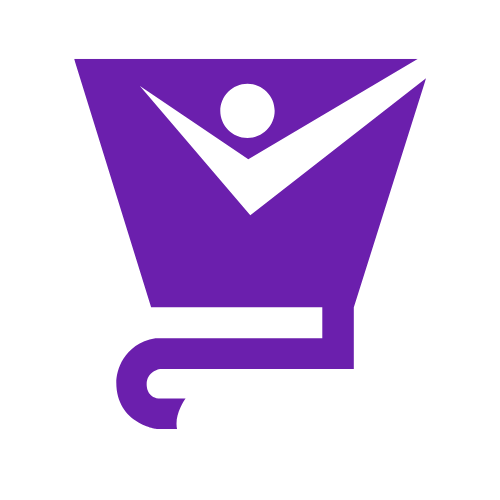
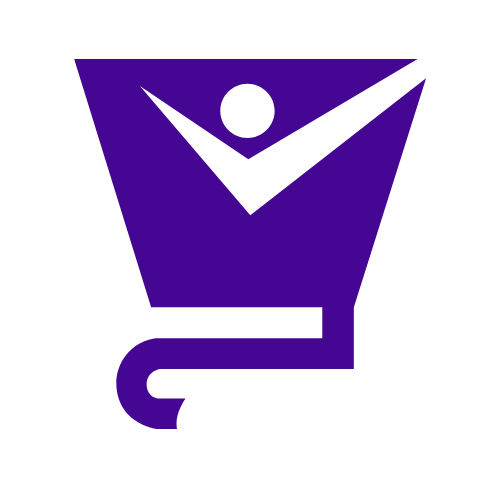
chore:add gif in onboarding screen

Changed region(s): [[0.15, 0.12, 0.87, 0.87]]

diff --git a/lib/feature/startup/widget/onboarding_widget.dart b/lib/feature/startup/widget/onboarding_widget.dart
@@ -1,6 +1,8 @@
 import 'package:e_commerce_app/core/constant/assets.dart';
-import 'package:e_commerce_app/core/theme/app_theme.dart';
+import 'package:e_commerce_app/core/theme/constant_color.dart';
+import 'package:e_commerce_app/core/widget/app_padding.dart';
 import 'package:e_commerce_app/feature/startup/bloc/onboarding_screen_model.dart';
+import 'package:e_commerce_app/feature/startup/widget/pageview_builder.dart';
 import 'package:flutter/material.dart';
 import 'package:flutter_screenutil/flutter_screenutil.dart';
 
@@ -21,52 +23,25 @@ class _OnboardingWidgetState extends State<OnboardingWidget> {
     return Scaffold(
       backgroundColor: Colors.white,
       body: SafeArea(
-        child: Padding(
-          padding: EdgeInsets.symmetric(horizontal: 16.w, vertical: 16.h),
+        child: AppPadding(
           child: Column(
             children: [
               Align(
                 alignment: AlignmentGeometry.topEnd,
-                child: Text(
-                  "Skip",
-                  style: TextStyle(
-                    fontSize: 12.sp,
-                    fontWeight: FontWeight.bold,
-                    color: Colors.deepPurple,
+                child: InkWell(
+                  autofocus: true,
+                  onTap: () {},
+                  child: Text(
+                    "Skip",
+                    style: textTheme.bodySmall?.copyWith(
+                      fontWeight: FontWeight.bold,
+                      color: AppColors.primaryColor,
+                    ),
                   ),
                 ),
               ),
               SizedBox(height: 30.h),
-              Expanded(
-                child: PageView.builder(
-                  itemCount: onBoardingScreen.length,
-                  controller: controller,
-
-                  itemBuilder: (context, index) {
-                    final data = onBoardingScreen[index];
-                    return Column(
-                      children: [
-                        Image.asset(Assets.appIcon),
-                        Text(
-                          data.title,
-                          textAlign: TextAlign.center,
-                          style: textTheme.displaySmall,
-                        ),
-                        SizedBox(height: 10.h),
-                        Text(
-                          data.description,
-                          textAlign: TextAlign.center,
-                          style: textTheme.bodyLarge,
-                        ),
-                      ],
-                    );
-                  },
-                ),
-              ),
-              IconButton(
-                onPressed: () {},
-                icon: Icon(Icons.forward, color: Colors.deepPurple),
-              ),
+              PageViewBuilder(controller: controller, textTheme: textTheme),
             ],
           ),
         ),

diff --git a/lib/feature/startup/widget/pageview_builder.dart b/lib/feature/startup/widget/pageview_builder.dart
@@ -1,0 +1,47 @@
+import 'package:e_commerce_app/core/theme/constant_color.dart';
+import 'package:e_commerce_app/feature/startup/bloc/onboarding_screen_model.dart';
+import 'package:flutter/material.dart';
+import 'package:flutter_screenutil/flutter_screenutil.dart';
+
+class PageViewBuilder extends StatelessWidget {
+  const PageViewBuilder({
+    super.key,
+    required this.controller,
+    required this.textTheme,
+  });
+
+  final PageController controller;
+  final TextTheme textTheme;
+
+  @override
+  Widget build(BuildContext context) {
+    return Expanded(
+      child: PageView.builder(
+        itemCount: onBoardingScreen.length,
+        controller: controller,
+        itemBuilder: (context, index) {
+          final data = onBoardingScreen[index];
+          return Column(
+            children: [
+              Image.asset(data.image),
+              SizedBox(height: 10.h),
+              Text(
+                data.title,
+                textAlign: TextAlign.center,
+                style: textTheme.displayMedium,
+              ),
+              SizedBox(height: 10.h),
+              Text(
+                data.description,
+                textAlign: TextAlign.center,
+                style: textTheme.bodyLarge?.copyWith(
+                  color: AppColors.greylight,
+                ),
+              ),
+            ],
+          );
+        },
+      ),
+    );
+  }
+}

diff --git a/lib/feature/startup/bloc/onboarding_screen_model.dart b/lib/feature/startup/bloc/onboarding_screen_model.dart
@@ -1,3 +1,5 @@
+import 'package:e_commerce_app/core/constant/assets.dart';
+
 class OnboardingScreenModel {
   final String title;
   final String description;
@@ -14,18 +16,18 @@ final List<OnboardingScreenModel> onBoardingScreen = [
     title: "Discover Amazing Products",
     description:
         "Explore thousands of products from different categories and find exactly what you need in seconds.",
-    image: "",
+    image: Assets.onboardingSceenFirst,
   ),
   OnboardingScreenModel(
-    title: "Discover Amazing Products",
+    title: "Easy and Secure Shopping",
     description:
-        "Explore thousands of products from different categories and find exactly what you need in seconds.",
-    image: "",
+        "Add products to your cart, enjoy a smooth checkout process, and pay securely.",
+    image: Assets.onboardingSceenSecond,
   ),
   OnboardingScreenModel(
-    title: "Discover Amazing Products",
+    title: "Shop Your Favorites",
     description:
-        "Explore thousands of products from different categories and find exactly what you need in seconds.",
-    image: "",
+        "Browse trending products and discover amazing deals every day.",
+    image: Assets.onboardingSceenThird,
   ),
 ];

diff --git a/lib/core/constant/assets.dart b/lib/core/constant/assets.dart
@@ -1,10 +1,16 @@
 class Assets {
   static const String _basePath = "assets/images";
-  static const String _basePathSvg = "assets/svg";
+  static const String _basePathSvg = "assets/gif";
   static const _svg = ".svg";
   static const _png = ".png";
   static const _jpg = ".jpg";
   static const _gif = ".gif";
 
   static const appIcon = "$_basePathSvg/app_splash_icon$_gif";
+  static const onboardingSceenFirst =
+      "$_basePathSvg/onboarding_imageFirst$_gif";
+  static const onboardingSceenSecond =
+      "$_basePathSvg/onboarding_imageSecond$_gif";
+  static const onboardingSceenThird =
+      "$_basePathSvg/onboarding_imageThird$_gif";
 }

diff --git a/lib/core/widget/app_padding.dart b/lib/core/widget/app_padding.dart
@@ -1,0 +1,25 @@
+import 'package:flutter/material.dart';
+import 'package:flutter_screenutil/flutter_screenutil.dart';
+
+class AppPadding extends StatelessWidget {
+  final Widget child;
+  final double horizontalPadding;
+  final double verticalPadding;
+  const AppPadding({
+    super.key,
+    required this.child,
+    this.horizontalPadding = 16,
+    this.verticalPadding = 16,
+  });
+
+  @override
+  Widget build(BuildContext context) {
+    return Padding(
+      padding: EdgeInsetsGeometry.symmetric(
+        horizontal: horizontalPadding.w,
+        vertical: verticalPadding.h,
+      ),
+      child: child,
+    );
+  }
+}

diff --git a/lib/core/theme/constant_color.dart b/lib/core/theme/constant_color.dart
@@ -5,5 +5,6 @@ import 'package:flutter/material.dart';
 class AppColors {
   static const black = Color(0xff000000);
   static const white = Color(0xFFFFFFFF);
-  static const primaryColor = Colors.deepPurple;
+  static const primaryColor = Color(0xff450693);
+  static const greylight = Color(0xFF9E9E9E);
 }
